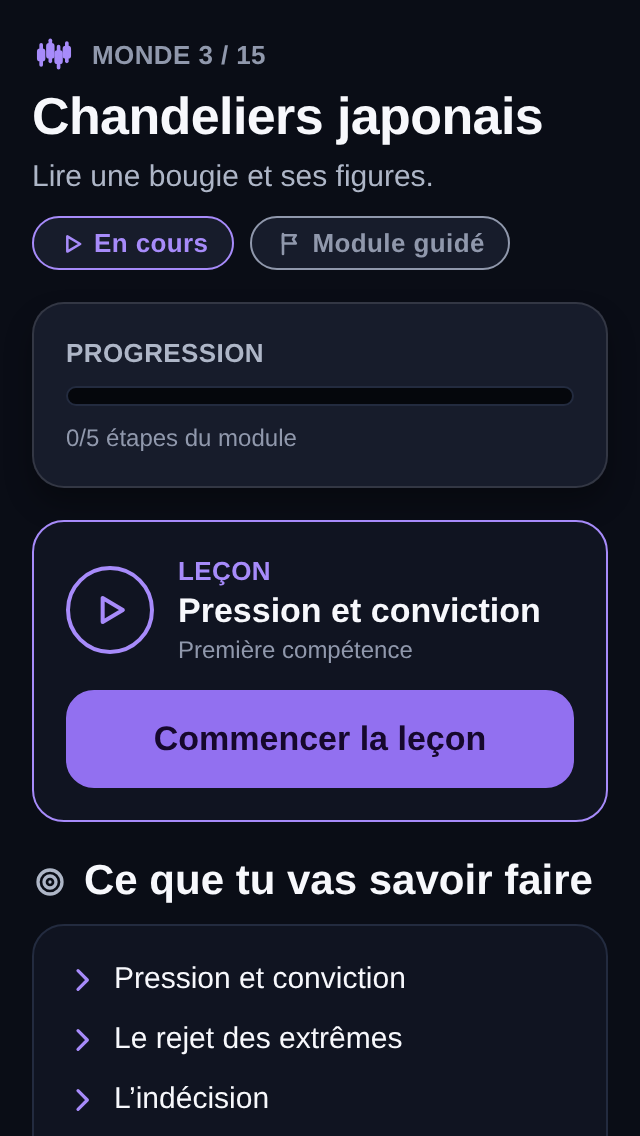
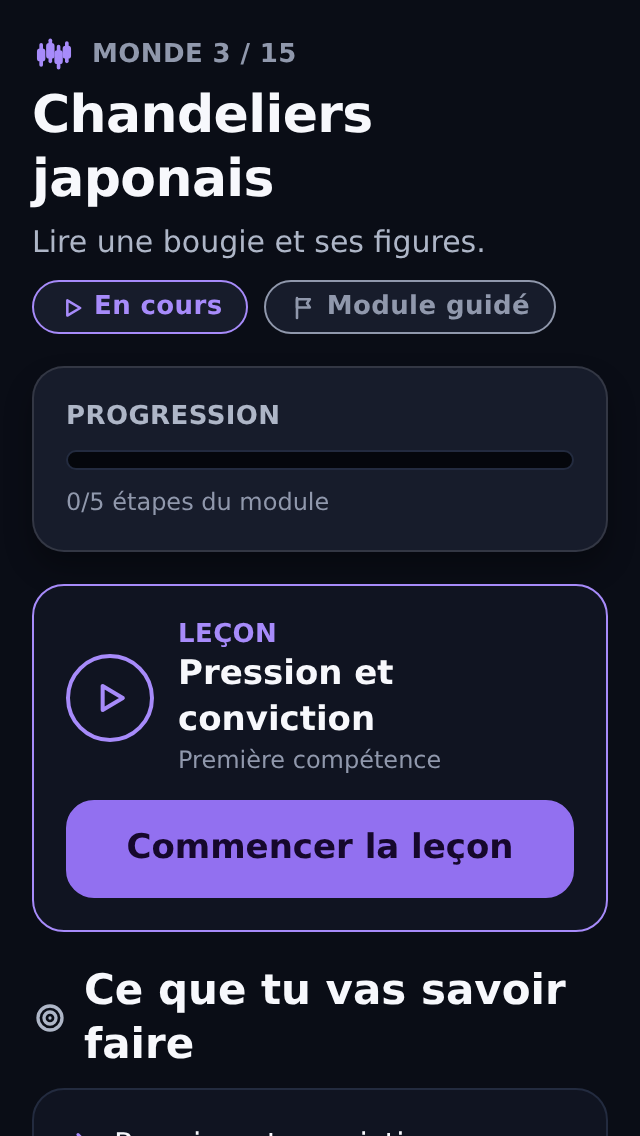
fix(lot4m): close visual validation gaps

diff --git a/src/app/session/[skillId].tsx b/src/app/session/[skillId].tsx
@@ -329,6 +329,8 @@ export default function Session() {
           {isLast ? (
             <Button
               label="Commencer les exercices"
+              fullWidth={false}
+              style={styles.stepNavPrimary}
               onPress={() => {
                 analytics.track('lesson_started', { skillId: resolvedId });
                 emit({ type: 'chart_revealed' }); // le graphique/les exercices apparaissent → le guide observe.
@@ -336,7 +338,12 @@ export default function Session() {
               }}
             />
           ) : (
-            <Button label="Suivant ▶" onPress={() => setLearnStep((s) => s + 1)} />
+            <Button
+              label="Suivant ▶"
+              fullWidth={false}
+              style={styles.stepNavPrimary}
+              onPress={() => setLearnStep((s) => s + 1)}
+            />
           )}
         </View>
       </Screen>
@@ -586,7 +593,8 @@ const RESULT_ICON: Record<string, TrademyIconName> = { perfect: 'trophy', pass: 
 const styles = StyleSheet.create({
   header: { gap: theme.spacing.sm },
   headRow: { flexDirection: 'row', alignItems: 'center', justifyContent: 'space-between', gap: theme.spacing.sm },
-  stepNav: { flexDirection: 'row', gap: theme.spacing.sm, marginTop: theme.spacing.md, alignItems: 'center' },
+  stepNav: { flexDirection: 'row', gap: theme.spacing.sm, marginTop: theme.spacing.md, alignItems: 'center', width: '100%' },
+  stepNavPrimary: { flex: 1, minWidth: 0 },
   results: { alignItems: 'center', gap: theme.spacing.md },
   accuracyWrap: { width: '100%' },
   statTiles: { flexDirection: 'row', gap: theme.spacing.sm, width: '100%' },

diff --git a/src/design-system/tokens.ts b/src/design-system/tokens.ts
@@ -61,9 +61,10 @@ export const palette = {
   red: '#FF5D73',
   redBright: '#FF8091',
 
-  // Annotation technique (cyan) + zones importantes (or)
+  // Annotation technique (cyan) + vigilance (orange) + zones/récompenses (or).
+  // `amber` et `gold` restent volontairement distincts : une révision due n'est pas un checkpoint.
   technical: '#22D3EE',
-  amber: '#F6C453',
+  amber: '#F09A5A',
   gold: '#F6C453',
   neutral: '#93A0B4',
   // Concepts avancés (difficulté 4–5) : orchidée distincte de la marque violette.
@@ -132,7 +133,7 @@ export const colors = {
   // Dérivée de la palette AA existante. La COULEUR N'EST JAMAIS le seul signal : `MarketStatePill`
   // porte toujours une icône + une forme + un libellé. Distincte du feedback (correct/incorrect).
   confirmation: palette.technical, // zone de confirmation = annotation technique (cyan)
-  invalidation: palette.amber, // niveau d'invalidation = zone importante (or), jamais « baissier »
+  invalidation: palette.gold, // niveau d'invalidation = zone importante (or), jamais « baissier »
   falseSignal: palette.neutral, // faux signal = neutre + motif barré (leurre, ni haussier ni baissier)
 
   // Pedagogical feedback — intentionally distinct from bullish/bearish

diff --git a/src/design-system/tokens.test.ts b/src/design-system/tokens.test.ts
@@ -26,6 +26,14 @@ describe('Trademy Learning Glass — sémantique des tokens', () => {
     expect(colors.feedbackIncorrect).not.toBe(colors.bearish);
   });
 
+  it('distingue visuellement une révision due du checkpoint/récompense', () => {
+    expect(colors.warning).toBe(palette.amber);
+    expect(colors.reward).toBe(palette.gold);
+    expect(colors.warning).not.toBe(colors.reward);
+    // L'invalidation reste une zone importante dorée, pas une alerte de révision.
+    expect(colors.invalidation).toBe(colors.reward);
+  });
+
   it('le texte du bouton primaire est le « sur-violet » sombre dédié', () => {
     expect(colors.onPrimary).toBe(palette.onViolet);
   });

diff --git a/docs/ADR-109-trademy-lot4m-guided-candles.md b/docs/ADR-109-trademy-lot4m-guided-candles.md
@@ -52,8 +52,9 @@ raisonnement conditionnel, repérage de faux signal — **5 types d'exercice** (
 ### Signature visuelle et couleurs (canon respecté, aucun ajout redondant)
 La signature du monde est sa **figure réelle** (`sampleSpec` = `candlestick-pattern`/`marteau`, rendu par
 `MiniVisual` sur le héros du parcours et de la fiche), conforme au canon « graphiques originaux plutôt
-qu'icônes génériques » — **aucune icône générique ajoutée**. Les icônes de statut restent sémantiques ;
-l'**or** reste réservé au checkpoint / à la récompense (icône `trophy`/`checkpoint`, couleur `reward`).
+qu'icônes génériques » — **aucune icône générique ajoutée**. Les icônes de statut restent sémantiques :
+l'**orange** signale la vigilance / révision (`warning`), tandis que l'**or** identifie le checkpoint,
+la récompense ou une zone importante (`reward`).
 
 ### Compteurs honnêtes et routes pré-générées
 - `repoTruth` et `offlineCapabilities` couvrent désormais **tous** les modules guidés : `skills` 4 → 8,
@@ -128,24 +129,33 @@ dans le dépôt** (garde-fou exécutable dans `candleVisualDirection.test.ts`).
   de statut icône+libellé, trail, prochaine étape), jamais par la seule couleur de la signature.
 - **Usage exact des couleurs** : violet = marque / CTA / progression (signature, boutons, barre) ; vert
   et rouge = marché (bougies, « hausse/baisse » toujours accompagnés d'un libellé) ; cyan = annotation
-  (cadre « SI… » du scénario de contexte) ; **or = uniquement le checkpoint** (accessible ou réussi) ;
-  aucune couleur codée en dur dans le module (tokens seulement, vérifié par test).
+  (cadre « SI… » du scénario de contexte) ; orange `warning` = vigilance / révision due ; **or =
+  checkpoint, récompense ou zone importante**, jamais état « à réviser » ; aucune couleur codée en
+  dur dans le module (tokens seulement, vérifié par test).
 - **Reduced motion** : réutilise le système d'animation existant ; sous `prefers-reduced-motion` les
   translations/oscillations/zooms décoratifs sont supprimés, l'état final s'affiche immédiatement, et
   toute l'information (sélection, annotations, figures) reste présente (capture `candle-fiche-reduced-390`).
 - **Assets et licences** : aucune image raster, aucune URL distante, aucune police ajoutée, aucun emoji
   fonctionnel dans le module (garde-fous `candleVisualDirection.test.ts` + `icons.test.ts` + garde emoji
   unique du projet). Les captures QA (`docs/lot4m-captures/`) sont des PNG générés, jamais embarqués.
-- **Captures inspectées (12)** : `candle-fiche-390` (signature + module), `candle-fiche-320`,
-  `candle-fiche-web`, `candle-fiche-reduced-390`, `candle-checkpoint-available-390` (or réservé au
-  checkpoint), `candle-review-390` (« à réviser »), `candle-lesson-anatomy-390` (leçon), `candle-context-390`
+- **Captures inspectées (12, régénérées après correction)** : `candle-fiche-390` (signature + module), `candle-fiche-320`,
+  `candle-fiche-web`, `candle-fiche-reduced-390`, `candle-checkpoint-available-390` (checkpoint doré,
+  distinct de la révision orange), `candle-review-390` (« à réviser »), `candle-lesson-anatomy-390` (leçon), `candle-context-390`
   (scénario, cadre cyan « SI… »), `candle-feedback-correct-390`, `candle-feedback-bobo-390` (misconception
   Bobo, réponse marquée par icône+couleur), `candle-reconstruct-place-390` (placement d'extrême OHLC,
   clavier ↑/↓), `candle-checkpoint-390` (revue en pratique). Zéro erreur console/page, zéro débordement
   horizontal, OHLC exacts, focus/CTA lisibles.
-- **Défaut trouvé puis corrigé** : le pilotage Chromium des sessions échouait à franchir l'étape
-  « résumé » de la leçon (sélection par texte ambiguë en RN-web) ; corrigé en ciblant le bouton
-  accessible (`getByRole('button')`), rendant les 12 captures déterministes.
+- **Défauts trouvés puis corrigés** :
+  - le pilotage Chromium des sessions échouait à franchir l'étape « résumé » de la leçon (sélection
+    par texte ambiguë en RN-web) ; corrigé en ciblant le bouton accessible (`getByRole('button')`) ;
+  - la rangée « Retour + Suivant » donnait au CTA principal une largeur de 100 %, créant un
+    débordement interne puis un décalage horizontal du `ScrollView` après le clic ; le CTA est
+    désormais flexible dans la largeur restante (`flex: 1`, `minWidth: 0`) ;
+  - `warning` et `reward` résolvaient vers le même or ; `warning` emploie désormais un orange AA
+    distinct, tandis que le checkpoint, la récompense et les zones importantes conservent l'or ;
+  - le harnais remet les défilements horizontaux à zéro, attend deux mesures successives identiques,
+    contrôle les boîtes des textes/SVG/CTA et refuse tout conteneur horizontalement débordant. La
+    publication des PNG utilise une copie compatible avec des systèmes de fichiers distincts.
 
 ## Portée
 Aucune dépendance ajoutée ; `package.json` et le lockfile inchangés. Fondations et les 13 autres mondes

diff --git a/docs/design/TRADEMY_LEARNING_GLASS.md b/docs/design/TRADEMY_LEARNING_GLASS.md
@@ -31,7 +31,7 @@ Une académie sombre, premium et vivante : rigueur de TradingView/Bloomberg, sim
 | feedback.correct | #66E3A4 | bonne réponse |
 | feedback.wrong | #FF8798 | erreur pédagogique |
 | feedback.info | #6EA8FE | information |
-| feedback.warning | #F6C453 | vigilance |
+| feedback.warning | #F09A5A | vigilance et révision due, distinctes d’un checkpoint |
 
 Le vert et le rouge ne servent jamais à la navigation générale. Ils décrivent le marché. Une bonne réponse utilise feedback.correct afin d’éviter toute confusion avec une bougie haussière.
 
